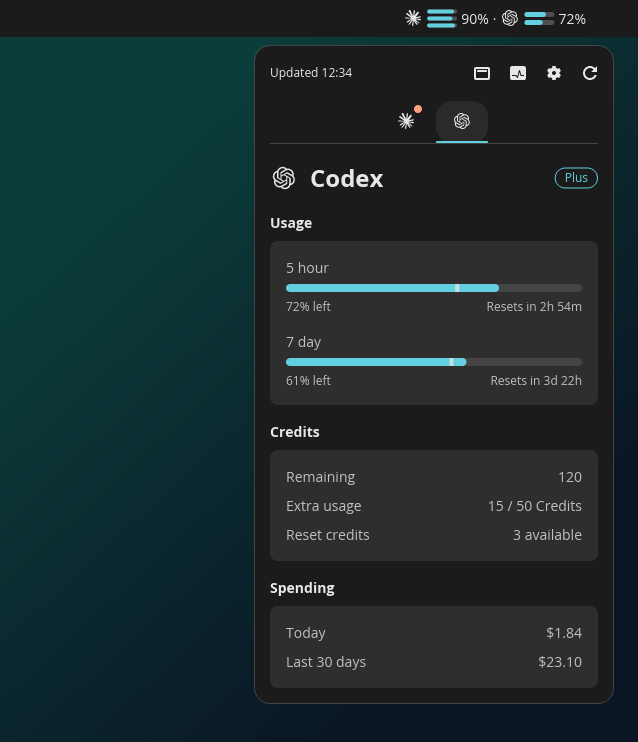
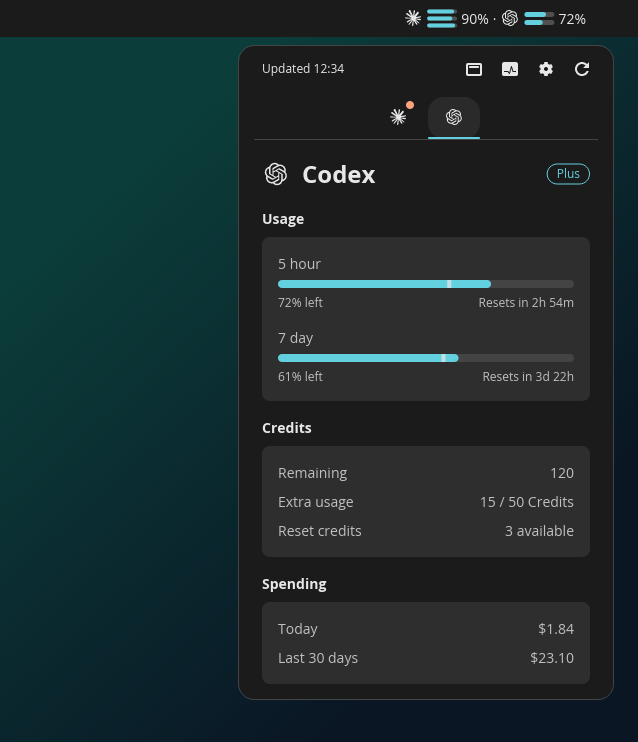
style: match native popup margins
The popup's content now sits space_m (24) from its edges and the tab
divider space_s (16), so the divider reaches past the text either side,
as in COSMIC's applets. The top padding is 8 above the header's buttons,
which bring their own 8. The popup is 16 wider (388, at least 316) so the
content keeps its width. The metainfo screenshots are regenerated.

diff --git a/src/popup.rs b/src/popup.rs
@@ -26,8 +26,12 @@ use crate::{fl, icons};
 
 /// The page scrolls beyond this, so the popup stays on screen with many windows.
 const PAGE_MAX_HEIGHT: f32 = 560.0;
-/// The popup's side margin.
-const MARGIN: u16 = 16;
+/// The popup's side margin: COSMIC's `space_m`, as its applets inset their popups' content
+/// (libcosmic's `menu_control_padding`).
+const MARGIN: u16 = 24;
+/// How far a divider stops from the popup's edges: COSMIC's `space_s`, so dividers reach past
+/// the content either side, as in COSMIC's applets.
+const DIVIDER_MARGIN: u16 = 16;
 const TAB_WIDTH: f32 = 52.0;
 /// Tabs that fit across the popup at [`TAB_WIDTH`]; more scroll sideways.
 const TABS_THAT_FIT: usize = 6;
@@ -71,7 +75,9 @@ pub fn view<'a>(
 
     let mut popup = widget::Column::new()
         .spacing(12)
-        .padding([12, 0, 16, 0])
+        // 8 above the header's buttons, which bring their own 8, as COSMIC's applets pad their
+        // popups; 16 under the page, which ends on a card.
+        .padding([8, 0, 16, 0])
         .push(header(snapshot, panel.open));
     if !banners.is_empty() {
         popup = popup.push(
@@ -170,7 +176,9 @@ fn tabs<'a>(snapshot: &'a Snapshot, selected: Option<&'a Entry>) -> Element<'a, 
     };
     widget::Column::new()
         .push(widget::container(strip).padding([0, MARGIN]))
-        .push(widget::container(widget::divider::horizontal::default()).padding([0, MARGIN]))
+        .push(
+            widget::container(widget::divider::horizontal::default()).padding([0, DIVIDER_MARGIN]),
+        )
         .into()
 }
 

diff --git a/src/preview.rs b/src/preview.rs
@@ -27,7 +27,7 @@ use crate::popup;
 use crate::snapshot::{self, Snapshot};
 
 /// As wide as the panel's popup.
-const WIDTH: f32 = 360.0;
+const WIDTH: f32 = 376.0;
 /// The screenshot's size in logical pixels. Wide enough for app stores, which want 620 px. The
 /// saved pixels follow the display's scale; libcosmic's own scale factor doesn't change them.
 const SHOT: Size = Size::new(640.0, 700.0);

diff --git a/src/app.rs b/src/app.rs
@@ -600,8 +600,8 @@ impl AppModel {
             None,
         );
         popup_settings.positioner.size_limits = Limits::NONE
-            .max_width(372.0)
-            .min_width(300.0)
+            .max_width(388.0)
+            .min_width(316.0)
             .min_height(100.0)
             .max_height(1080.0);
         let snapshot = if self.connection.popup_opened() {
